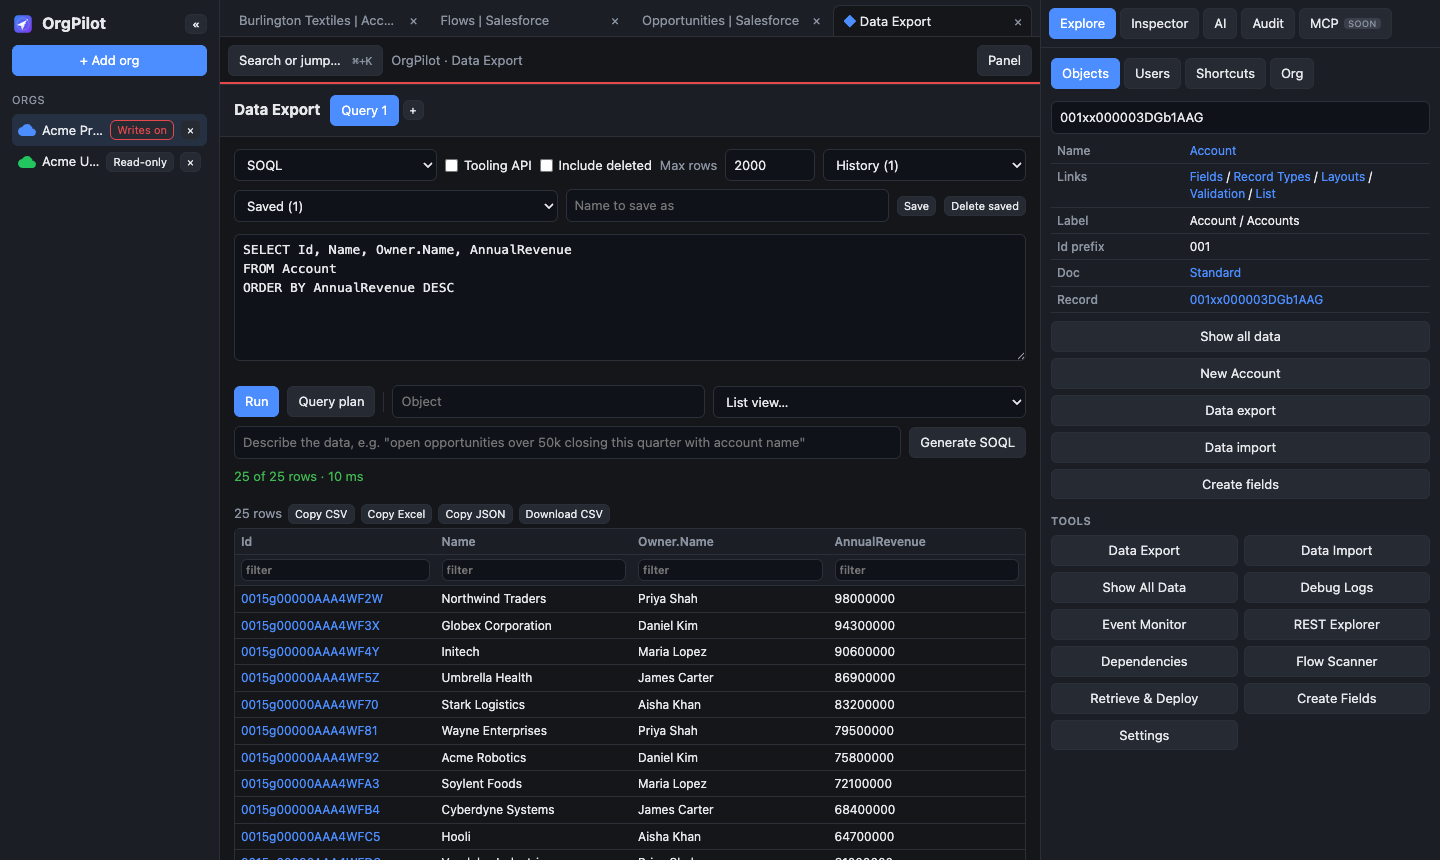
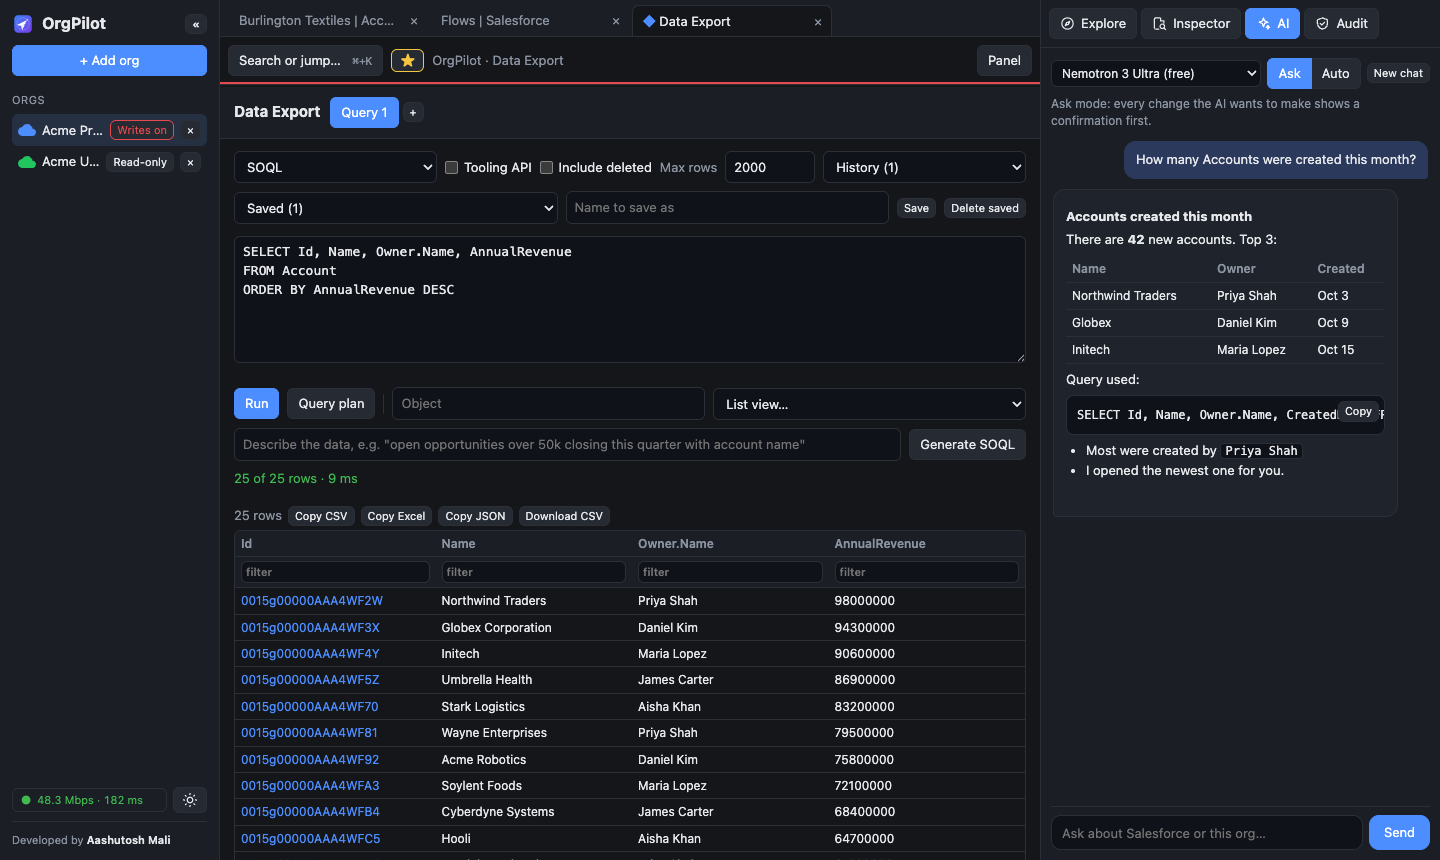
OrgPilot 0.2.0: updated README, screenshot and third-party notices

diff --git a/README.md b/README.md
@@ -44,6 +44,10 @@ If you work on Salesforce, your day probably looks like this:
 ### 🗂 Work in all your orgs at once
 - Log in to as many orgs as you like (production, Developer Edition, sandboxes, My Domain), including orgs with multi-factor authentication.
 - Each org keeps its own session, colour and tab bar. Opening a page that's already open just switches to it.
+- Your tabs reopen when you start OrgPilot again. Pin the ones you always need, drag tabs to reorder them, and right-click a tab for more.
+- **Side by side:** click **Split** to show a second page, from the same or another org, next to the current one. Perfect for comparing a sandbox with production.
+- **Favorites:** click ☆ on any record, list, report, Setup page or tool. Your favorites from every org are one click away in Explore → Favorites and in Ctrl/Cmd + K.
+- OrgPilot updates itself: when a new version is out you'll see a short note at the top.
 - Tabs you haven't used for a while go to sleep to save memory, and wake up when you click them.
 - Optional banner per org (for example "PRODUCTION: careful") so you always know where you are.
 
@@ -68,13 +72,35 @@ Read debug logs as a summary (limits used, queries, DML, errors, slowest code) o
 - **Retrieve & Deploy**: pick components, download them as a package, validate or deploy, even from one org to another.
 - **Create Fields**: create one field or dozens at once, and grant access through permission sets.
 
+### 🧪 Run Apex and tests
+Run anonymous Apex and see your debug output straight away, then run test classes and check code coverage, per class and for the whole org.
+
+### 🔀 Org Compare
+Compare Apex, flows, fields, validation rules, permission sets and more between two orgs. See what's different, what's only in one org, and a line-by-line comparison. Then validate or deploy the changes from one org to the other.
+
+### 🩺 Org Health Scan
+One click checks unused licences, Salesforce's security Health Check, who can see or change all data, flow problems, old Workflow Rules and Process Builders, Apex test coverage, and storage and API limits, with links to fix each one.
+
+### 🕵 Setup Audit Trail
+See who changed what in Setup and when, for one org or all your orgs together, with filters and export.
+
 ### 👥 Users and org details
 Find any user, log in as them, reset their password, freeze or unfreeze them, and see their permission sets. View org details and limits at a glance. Call any Salesforce API from the REST Explorer.
 
 ### ✨ AI co-pilot
 Ask questions about your org in plain English: *"How many leads were created this week?"*, *"Why is this flow failing?"*, *"Describe the Opportunity object."* The AI looks things up in your org before answering, can write SOQL for you, and only talks about Salesforce.
 
-Bring your own AI: Groq (free tier available), OpenAI, OpenRouter, Anthropic, or a model running on your own computer. You add your key once in Settings, and it is stored encrypted.
+**One sign-in, every major model:** click **Sign in with OpenRouter** in Settings → AI and you can use ChatGPT, Claude, Gemini, DeepSeek, Llama and 400+ other models, with no API keys to copy. You start on a free model and can switch anytime; paid models are billed by OpenRouter. Prefer your own key (Groq, OpenAI, Anthropic) or a model on your own computer? That's under *Advanced*.
+
+Just ask, and OrgPilot does it in your current org:
+
+| You type | OrgPilot |
+|---|---|
+| *"Show open opportunities over 50k closing this quarter"* | Writes the SOQL, runs it and shows the results with the query |
+| *"Scan my flows for problems"* | Runs the Flow Scanner and lists what to fix first |
+| *"Why did the last Apex job fail?"* | Reads recent debug logs, finds the errors and explains them |
+| *"Open the newest Account"* | Opens the record in a tab |
+| *"Set the Industry of Acme to Energy"* | Shows old and new value and waits for your approval |
 
 ---
 
@@ -116,7 +142,7 @@ Get the latest version from the **[Releases page](https://github.com/aashutoshma
 2. Choose Production or Sandbox, type your username, and log in on the Salesforce page that appears. Click **Allow**.
 3. Your org appears in the sidebar and opens its home page. Add as many orgs as you like.
 4. Press **Ctrl/Cmd + K** to jump anywhere, or open the **Explore** panel on the right for all the tools.
-5. Optional: add an AI key in **Settings → AI** to use the AI co-pilot.
+5. Optional: open the **AI** panel and click **Sign in with OpenRouter** to switch on the AI co-pilot (free models available).
 
 ---
 
@@ -150,7 +176,7 @@ OrgPilot is free. If it saves you time, you can buy me a coffee. It helps keep n
 
 **OrgPilot** · Developed by **[Aashutosh Mali](https://www.linkedin.com/in/aashutoshmali/)** · [LinkedIn](https://www.linkedin.com/in/aashutoshmali/) · [Email](mailto:aashutosh.smali@gmail.com)
 
-© 2026 OrgPilot · [Privacy Policy](https://orgpilot.aashutosh-smali.workers.dev/privacy.html) · [Terms of Use](https://orgpilot.aashutosh-smali.workers.dev/terms.html)
+© 2026 OrgPilot · [Privacy Policy](https://orgpilot.aashutosh-smali.workers.dev/privacy) · [Terms of Use](https://orgpilot.aashutosh-smali.workers.dev/terms) · [Third-party notices](THIRD_PARTY_NOTICES.md)
 
 <sub>Salesforce is a trademark of Salesforce, Inc. OrgPilot is not affiliated with Salesforce, Inc.</sub>
 

diff --git a/THIRD_PARTY_NOTICES.md b/THIRD_PARTY_NOTICES.md
@@ -1,0 +1,33 @@
+# Third-party notices
+
+OrgPilot includes the following third-party material.
+
+## Salesforce Inspector Reloaded: Setup page list
+
+The list of Salesforce Setup pages used by the command palette and Explore → Shortcuts (`src/shared/setupLinks.ts`) is adapted from [Salesforce Inspector Reloaded](https://github.com/tprouvot/Salesforce-Inspector-reloaded) (`addon/links.js`).
+
+```
+MIT License
+
+Copyright (c) 2023 Thomas Prouvot
+
+Permission is hereby granted, free of charge, to any person obtaining a copy
+of this software and associated documentation files (the "Software"), to deal
+in the Software without restriction, including without limitation the rights
+to use, copy, modify, merge, publish, distribute, sublicense, and/or sell
+copies of the Software, and to permit persons to whom the Software is
+furnished to do so, subject to the following conditions:
+
+The above copyright notice and this permission notice shall be included in all
+copies or substantial portions of the Software.
+
+THE SOFTWARE IS PROVIDED "AS IS", WITHOUT WARRANTY OF ANY KIND, EXPRESS OR
+IMPLIED, INCLUDING BUT NOT LIMITED TO THE WARRANTIES OF MERCHANTABILITY,
+FITNESS FOR A PARTICULAR PURPOSE AND NONINFRINGEMENT. IN NO EVENT SHALL THE
+AUTHORS OR COPYRIGHT HOLDERS BE LIABLE FOR ANY CLAIM, DAMAGES OR OTHER
+LIABILITY, WHETHER IN AN ACTION OF CONTRACT, TORT OR OTHERWISE, ARISING FROM,
+OUT OF OR IN CONNECTION WITH THE SOFTWARE OR THE USE OR OTHER DEALINGS IN THE
+SOFTWARE.
+```
+
+Other open-source packages bundled into the app keep their own licences in `node_modules` (Electron, electron-updater, zod, fflate, fast-xml-parser, the Anthropic and MCP SDKs).
